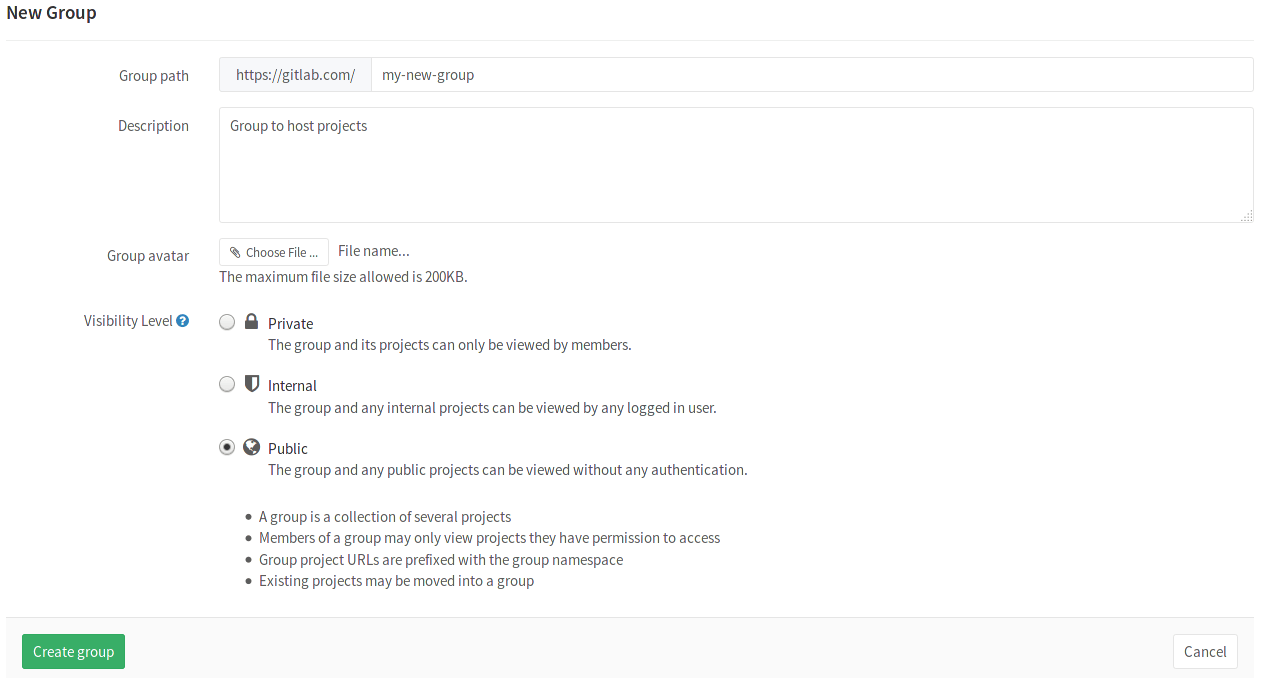
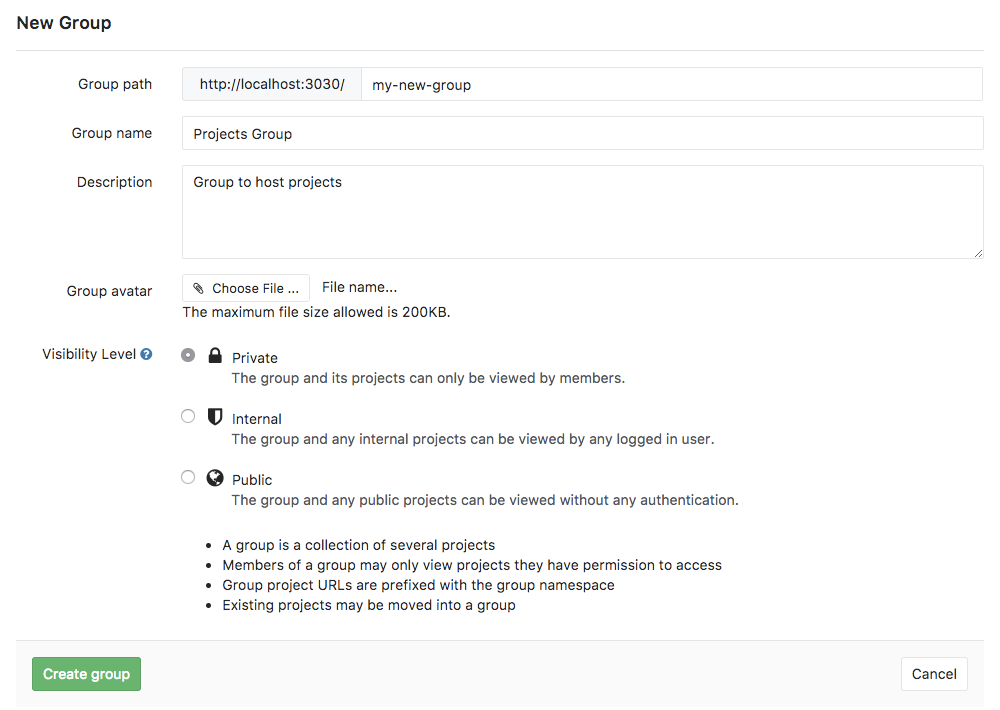
Add a name field to the group edit form
Enables user specification of group name vs. name inferred from group path.

Cause new group form to copy name from path

Adds some new page-specific javascript that copies entry from the
group path field to the group name field when the group name field
is initially empty.

Remove duplicate group name entry field on group edit form

This corrects the duplicated name entry field and tests that the
JavaScript does not update the group name field if the user
edits the group path.  (Editing the group path is not recommended
in any case, but it is possible.)

Address eslint errors in group.js

Enable group name copy with dispatch and explore group creation

The dispatch and explore group creation forms require the group.js
asset, and their tests now require testing against poltergeist

Update workflow new group instruction

Update the gitlab basics group creation document

Add a change log entry

Remove unused variable for eslint

diff --git a/app/assets/javascripts/dispatcher.js b/app/assets/javascripts/dispatcher.js
@@ -38,6 +38,7 @@
 import Issue from './issue';
 
 import BindInOut from './behaviors/bind_in_out';
+import Group from './group';
 import GroupName from './group_name';
 import GroupsList from './groups_list';
 import ProjectsList from './projects_list';
@@ -264,8 +265,9 @@ const ShortcutsBlob = require('./shortcuts_blob');
         case 'groups:create':
         case 'admin:groups:create':
           BindInOut.initAll();
-        case 'groups:new':
-        case 'admin:groups:new':
+          new Group();
+          new GroupAvatar();
+          break;
         case 'groups:edit':
         case 'admin:groups:edit':
           new GroupAvatar();

diff --git a/app/assets/javascripts/group.js b/app/assets/javascripts/group.js
@@ -1,0 +1,21 @@
+export default class Group {
+  constructor() {
+    this.groupPath = $('#group_path');
+    this.groupName = $('#group_name');
+    this.updateHandler = this.update.bind(this);
+    this.resetHandler = this.reset.bind(this);
+    if (this.groupName.val() === '') {
+      this.groupPath.on('keyup', this.updateHandler);
+      this.groupName.on('keydown', this.resetHandler);
+    }
+  }
+
+  update() {
+    this.groupName.val(this.groupPath.val());
+  }
+
+  reset() {
+    this.groupPath.off('keyup', this.updateHandler);
+    this.groupName.off('keydown', this.resetHandler);
+  }
+}

diff --git a/config/webpack.config.js b/config/webpack.config.js
@@ -48,6 +48,7 @@ var config = {
     users:                './users/users_bundle.js',
     vue_pipelines:        './vue_pipelines_index/index.js',
     issue_show:           './issue_show/index.js',
+    group:                './group.js',
   },
 
   output: {

diff --git a/spec/features/admin/admin_groups_spec.rb b/spec/features/admin/admin_groups_spec.rb
@@ -25,19 +25,37 @@ feature 'Admin Groups', feature: true do
       visit admin_groups_path
 
       click_link "New Group"
-      fill_in 'group_path', with: 'gitlab'
-      fill_in 'group_description', with: 'Group description'
+      path_component = 'gitlab'
+      group_name = 'GitLab group name'
+      group_description = 'Description of group for GitLab'
+      fill_in 'group_path', with: path_component
+      fill_in 'group_name', with: group_name
+      fill_in 'group_description', with: group_description
       click_button "Create group"
 
-      expect(current_path).to eq admin_group_path(Group.find_by(path: 'gitlab'))
-      expect(page).to have_content('Group: gitlab')
-      expect(page).to have_content('Group description')
+      expect(current_path).to eq admin_group_path(Group.find_by(path: path_component))
+      content = page.find('div#content-body')
+      h3_texts = content.all('h3').collect(&:text).join("\n")
+      expect(h3_texts).to match group_name
+      li_texts = content.all('li').collect(&:text).join("\n")
+      expect(li_texts).to match group_name
+      expect(li_texts).to match path_component
+      expect(li_texts).to match group_description
     end
 
     scenario 'shows the visibility level radio populated with the default value' do
       visit new_admin_group_path
 
       expect_selected_visibility(internal)
+    end
+
+    scenario 'when entered in group path, it auto filled the group name', js: true do
+      visit admin_groups_path
+      click_link "New Group"
+      group_path = 'gitlab'
+      fill_in 'group_path', with: group_path
+      name_field = find('input#group_name')
+      expect(name_field.value).to eq group_path
     end
   end
 
@@ -58,6 +76,17 @@ feature 'Admin Groups', feature: true do
       visit admin_group_edit_path(group)
 
       expect_selected_visibility(group.visibility_level)
+    end
+
+    scenario 'edit group path does not change group name', js: true do
+      group = create(:group, :private)
+
+      visit admin_group_edit_path(group)
+      name_field = find('input#group_name')
+      original_name = name_field.value
+      fill_in 'group_path', with: 'this-new-path'
+
+      expect(name_field.value).to eq original_name
     end
   end
 

diff --git a/spec/features/dashboard/group_spec.rb b/spec/features/dashboard/group_spec.rb
@@ -5,16 +5,18 @@ RSpec.describe 'Dashboard Group', feature: true do
     login_as(:user)
   end
 
-  it 'creates new grpup' do
+  it 'creates new group', js: true do
     visit dashboard_groups_path
     click_link 'New Group'
+    new_path = 'Samurai'
+    new_description = 'Tokugawa Shogunate'
 
-    fill_in 'group_path', with: 'Samurai'
-    fill_in 'group_description', with: 'Tokugawa Shogunate'
+    fill_in 'group_path', with: new_path
+    fill_in 'group_description', with: new_description
     click_button 'Create group'
 
-    expect(current_path).to eq group_path(Group.find_by(name: 'Samurai'))
-    expect(page).to have_content('Samurai')
-    expect(page).to have_content('Tokugawa Shogunate')
+    expect(current_path).to eq group_path(Group.find_by(name: new_path))
+    expect(page).to have_content(new_path)
+    expect(page).to have_content(new_description)
   end
 end

diff --git a/lib/gitlab/gitaly_client/ref.rb b/lib/gitlab/gitaly_client/ref.rb
@@ -24,7 +24,7 @@ module Gitlab
       end
 
       def find_ref_name(commit_id, ref_prefix)
-        request   = Gitaly::FindRefNameRequest.new(
+        request = Gitaly::FindRefNameRequest.new(
           repository: @repository,
           commit_id: commit_id,
           prefix: ref_prefix

diff --git a/spec/features/groups_spec.rb b/spec/features/groups_spec.rb
@@ -83,7 +83,7 @@ feature 'Group', feature: true do
     end
   end
 
-  describe 'create a nested group' do
+  describe 'create a nested group', js: true do
     let(:group) { create(:group, path: 'foo') }
 
     context 'as admin' do

diff --git a/doc/workflow/groups.md b/doc/workflow/groups.md
@@ -11,9 +11,9 @@ You can create a group by going to the 'Groups' tab of the GitLab dashboard and 
 
 ![Click the 'New group' button in the 'Groups' tab](groups/new_group_button.png)
 
-Next, enter the name (required) and the optional description and group avatar.
+Next, enter the path and name (required) and the optional description and group avatar.
 
-![Fill in the name for your new group](groups/new_group_form.png)
+![Fill in the path for your new group](groups/new_group_form.png)
 
 When your group has been created you are presented with the group dashboard feed, which will be empty.
 

diff --git a/doc/gitlab-basics/create-group.md b/doc/gitlab-basics/create-group.md
@@ -25,6 +25,8 @@ To create a group:
     1. Set the "Group path" which will be the namespace under which your projects
        will be hosted (path can contain only letters, digits, underscores, dashes
        and dots; it cannot start with dashes or end in dot).
+    1. The "Group name" will populate with the path.  Optionally, you can change
+       it.  This is the name that will display in the group views.
     1. Optionally, you can add a description so that others can briefly understand
        what this group is about.
     1. Optionally, choose and avatar for your project.
